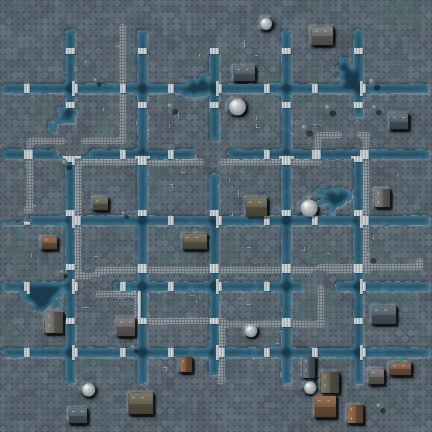
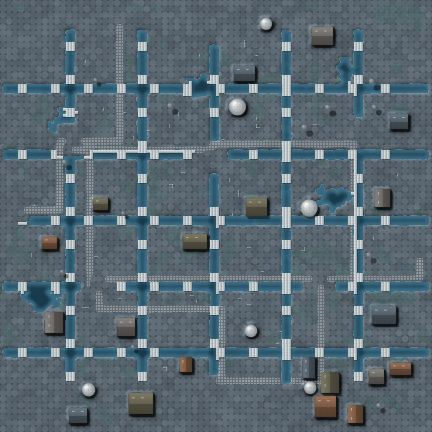
Ивенты: правки по сверке — неявка, награды по входу, сердцебиение матча, итог игроку
- комната: ушедший во время открытия убирается из ожидания; роль, так и не вошедшая
  за 3 минуты, — отмена без наград; поражение — только ушедшим после входа
- итог: в базу — кто из людей входил и была ли сдача; сдача в первые 3 минуты — без наград;
  игроку — только своя награда и свои убийства; итог дошлётся медленному игроку;
  запись итога — три попытки, иначе честное сообщение на экране
- база: сердцебиение матча (rt_event_beat, beat_at) — пропавший бой отменяется через 2 минуты
  и не открывается заново; rt_event_finish только для идущего матча; рейтинг по стороне
  до среза; без стороны в очередь нельзя
- лобби: само переводит в бой один раз на матч; движок: раскрытие ударом — только у
  скрытных бойцов ивента (бои планет как были); баланс охоты на джедаев по прогону ботов

Claude-Session: https://claude.ai/code/session_01WPoEiYkdcnr17YKPkK6tbL

diff --git a/server/event-room.js b/server/event-room.js
@@ -27,10 +27,16 @@ function EventRoom(name, match, cfg) {
   this.clients = []; this.waiting = []; this.ready = false; this.closed = false; this.failed = null;
   this.ms = []; this.bytes = 0; this.bytesRate = 0; this.rateAt = Date.now(); this.tickN = 0;
   this.battle = { tick: 0 }; this.created = Date.now(); this.emptySince = Date.now();
-  this.roleSeen = {}; this.endAt = 0; this.awards = null; this.finishing = false;
+  this.roleSeen = {}; this.endAt = 0; this.awards = null; this.finishing = false; this.saved = false;
+  this.present = {}; this.beatAt = Date.now();          // кто из людей входил в бой; сердцебиение матча в базе
   var self = this;
   this.open().then(function() { self.ready = true; self.waiting.forEach(function(c) { self.admit(c); }); self.waiting = []; },
-                   function(e) { self.failed = e.message || String(e); self.cfg.log('error', 'ивент не открылся', { room: name, err: self.failed }); self.waiting.forEach(function(c) { self.err(c, 'Ивент не открылся: ' + self.failed, 4007); }); self.waiting = []; self.closed = true; });
+                   function(e) {
+                     self.failed = e.message || String(e); self.cfg.log('error', 'ивент не открылся', { room: name, err: self.failed });
+                     self.waiting.forEach(function(c) { self.err(c, 'Ивент не открылся: ' + self.failed, 4007); }); self.waiting = []; self.closed = true;
+                     // база уже пометила матч «идёт» — отменяем, чтобы игроки не застряли
+                     if (self.match && !(self.cfg.dev && /^dev-/.test(self.matchId))) self.rpc('rt_event_abort', { p_match: self.matchId, p_why: 'сервер не открыл бой: ' + self.failed }).catch(function() {});
+                   });
 }
 EventRoom.prototype.rpc = function(fn, args) { args = args || {}; args.p_key = this.cfg.key; return this.cfg.rpc(fn, args); };
 EventRoom.prototype.err = function(c, msg, code) { try { c.ws.send(JSON.stringify({ t: 'error', msg: msg })); c.ws.close(code || 4007); } catch (e) {} };
@@ -53,6 +59,7 @@ EventRoom.prototype.open = function() {
   var get = this.cfg.dev && /^dev-/.test(this.matchId) ? devMatch(this.matchId) : this.rpc('rt_event_open', { p_match: this.matchId });
   return get.then(function(m) {
     if (!m || !m.event || !m.map) throw new Error('база не вернула матч');
+    self.match = m;
     var E = CAT.BY[m.event]; if (!E || !E.ready) throw new Error('ивент не готов: ' + m.event);
     if (E.maps.indexOf(m.map) < 0 || !fs.existsSync(mapPath(m.map))) throw new Error('нет карты ' + m.map);
     self.match = m; self.E = E;
@@ -94,7 +101,7 @@ EventRoom.prototype.admit = function(c) {
   c.side = teamOf(role ? role.side : p.side); c.role = p.role;
   c.viewer = new Net.Viewer(B, c.side, c.who.user === 'dev' && this.cfg.dev ? 'dev' : c.who.user, { ownerCheck: true });
   this.clients.push(c);
-  this.roleSeen[p.role] = Date.now();
+  this.roleSeen[p.role] = Date.now(); this.present[c.who.user] = 1;
   var E = this.E;
   this.send(c, JSON.stringify({
     t: 'hello', kind: 'event', system: this.mapInfo.id, name: this.mapInfo.name, side: c.side, att: B.att, T: Math.round(B.t * 100) / 100, capNeed: 1,
@@ -104,11 +111,20 @@ EventRoom.prototype.admit = function(c) {
           players: this.match.players.map(function(q) { return { role: q.role, nick: q.bot ? 'бот' : q.nick || '', bot: !!q.bot, me: q.user === c.who.user }; }) }
   }));
   this.send(c, JSON.stringify({ t: 'ev', v: this.H.view(c.side) }));
-  if (this.H.result) this.send(c, JSON.stringify({ t: 'evend', result: this.H.result, awards: this.awards }));
+  if (this.H.result && this.endMsg) this.send(c, this.endMsg(c), true);
   this.cfg.log('info', 'игрок в ивенте', { room: this.name, user: c.who.user, role: p.role, side: c.side });
 };
-EventRoom.prototype.leave = function(c) { var i = this.clients.indexOf(c); if (i >= 0) this.clients.splice(i, 1); if (c.role) this.roleSeen[c.role] = Date.now(); };
-EventRoom.prototype.send = function(c, s) { this.bytes += s.length; c.bytes = (c.bytes || 0) + s.length; try { c.send(s); } catch (e) {} };
+EventRoom.prototype.leave = function(c) {
+  var i = this.clients.indexOf(c); if (i >= 0) this.clients.splice(i, 1);
+  var w = this.waiting.indexOf(c); if (w >= 0) this.waiting.splice(w, 1);           // ушёл, пока бой открывался
+  if (c.role) this.roleSeen[c.role] = Date.now();
+};
+// Медленный игрок: кадры пропускаем и потом шлём бой заново (viewer.lost); итог — дошлём, как освободится
+EventRoom.prototype.send = function(c, s, keep) {
+  if (c.ws.bufferedAmount > 1048576) { if (c.viewer) c.viewer.lost(); if (keep) c.pending = s; return; }
+  this.bytes += s.length; c.bytes = (c.bytes || 0) + s.length;
+  try { c.ws.send(s); } catch (e) {}
+};
 EventRoom.prototype.command = function(c, m) { if (!c.viewer || !this.ready || this.H.result) return; if (m.t === 'cmd') c.viewer.command(m); };
 
 // ---- такт
@@ -119,11 +135,17 @@ EventRoom.prototype.step = function() {
   this.tickN++; this.battle.tick = this.tickN;
   for (i = 0; i < this.clients.length; i++) {
     var c = this.clients[i]; if (!c.viewer) continue;
+    if (c.pending && c.ws.bufferedAmount < 262144) { var pd = c.pending; c.pending = null; this.send(c, pd, true); }
     if (this.tickN % Net.FRAME_EVERY === 0) this.send(c, c.viewer.frame(this.tickN));
     if (this.tickN % 5 === 0) this.send(c, JSON.stringify({ t: 'ev', v: H.view(c.side) }));
   }
   if (now - this.rateAt >= 2000) { this.bytesRate = this.bytes / ((now - this.rateAt) / 1000); this.bytes = 0; this.rateAt = now; }
   if (H.result && !this.finishing) this.finish();
+  // сердцебиение матча: база отменяет «идущие» матчи без него (сервер упал, комната пропала)
+  if (!H.result && now - this.beatAt > 30e3 && !(this.cfg.dev && /^dev-/.test(this.matchId))) {
+    this.beatAt = now; var self0 = this;
+    this.rpc('rt_event_beat', { p_match: this.matchId }).catch(function(e) { self0.cfg.log('warn', 'rt_event_beat', { room: self0.name, err: e.message }); });
+  }
   // никто из людей так и не вошёл
   if (!H.result && !Object.keys(this.roleSeen).length && now - this.created > START_WAIT) this.abort('игроки не вошли в бой');
 };
@@ -133,24 +155,36 @@ EventRoom.prototype.forfeit = function(now) {
   var self = this, here = {}, roles = {};
   this.clients.forEach(function(c) { if (c.role) here[c.role] = 1; });
   this.humans.forEach(function(p) { roles[p.role] = 1; });
-  var gone = Object.keys(roles).filter(function(r) { return !here[r] && now - (self.roleSeen[r] || self.created) > LEAVE_LOSE; });
+  var never = Object.keys(roles).filter(function(r) { return !self.roleSeen[r]; });
+  if (never.length && now - this.created > START_WAIT) { this.abort('не все игроки вошли в бой'); return; }
+  var gone = Object.keys(roles).filter(function(r) { return self.roleSeen[r] && !here[r] && now - self.roleSeen[r] > LEAVE_LOSE; });
   if (!gone.length) return;
   if (gone.length === Object.keys(roles).length) { this.abort('все игроки покинули бой'); return; }
   var win = Object.keys(roles).filter(function(r) { return gone.indexOf(r) < 0; })[0];
-  this.H.finish(win, 'Соперник покинул бой');
+  this.H.finish(win, 'Соперник покинул бой'); this.H.result.forfeit = true;
 };
 EventRoom.prototype.finish = function() {
   var self = this, H = this.H;
   this.finishing = true; this.endAt = Date.now();
-  var res = { winner: H.result.winner, why: H.result.why, t: H.result.t, tasks: H.result.tasks, need: H.result.need, stats: H.result.stats };
-  this.cfg.log('info', 'ивент окончен', { room: this.name, winner: res.winner, why: res.why, t: res.t });
-  var done = function(aw) {
-    self.awards = aw || null;
-    self.clients.forEach(function(c) { self.send(c, JSON.stringify({ t: 'evend', result: res, awards: self.awardFor(c) })); });
+  var res = { winner: H.result.winner, why: H.result.why, t: H.result.t, tasks: H.result.tasks, need: H.result.need, stats: H.result.stats, forfeit: !!H.result.forfeit, present: Object.keys(this.present) };
+  this.cfg.log('info', 'ивент окончен', { room: this.name, winner: res.winner, why: res.why, t: res.t, forfeit: res.forfeit });
+  // игроку — общий итог без чужих данных, своя награда и свои убийства
+  this.endMsg = function(c) {
+    var me = c.who && res.stats[c.who.user] || { kills: 0, lost: 0 };
+    return JSON.stringify({ t: 'evend', result: { winner: res.winner, why: res.why, t: res.t, tasks: res.tasks, need: res.need, forfeit: res.forfeit }, me: me, awards: self.awardFor(c), saved: self.saved, test: !!self.match.test });
   };
-  if (this.cfg.dev && /^dev-/.test(this.matchId)) { done(null); return; }
-  this.rpc('rt_event_finish', { p_match: this.matchId, p_result: res }).then(function(r) { done(r && r.awards || null); },
-    function(e) { self.cfg.log('error', 'rt_event_finish', { room: self.name, err: e.message }); done(null); });
+  var done = function(aw, saved) {
+    self.awards = aw || null; self.saved = !!saved;
+    self.clients.forEach(function(c) { self.send(c, self.endMsg(c), true); });
+  };
+  if (this.cfg.dev && /^dev-/.test(this.matchId)) { done(null, true); return; }
+  // запись итога: три попытки (сеть до базы может моргнуть)
+  var tries = 0;
+  (function save() {
+    tries++;
+    self.rpc('rt_event_finish', { p_match: self.matchId, p_result: res }).then(function(r) { done(r && r.awards || null, true); },
+      function(e) { self.cfg.log('error', 'rt_event_finish', { room: self.name, err: e.message, try: tries }); if (tries < 3) setTimeout(save, 4000 * tries); else done(null, false); });
+  })();
 };
 EventRoom.prototype.awardFor = function(c) {
   if (!this.awards || !c.who) return null;
@@ -161,7 +195,7 @@ EventRoom.prototype.abort = function(why) {
   if (this.closed) return;
   var self = this;
   this.cfg.log('warn', 'ивент отменён', { room: this.name, why: why });
-  this.clients.forEach(function(c) { self.send(c, JSON.stringify({ t: 'evend', aborted: true, result: { why: 'Бой отменён: ' + why } })); });
+  this.clients.forEach(function(c) { self.send(c, JSON.stringify({ t: 'evend', aborted: true, result: { why: 'Бой отменён: ' + why } }), true); });
   this.closed = true;
   if (!(this.cfg.dev && /^dev-/.test(this.matchId))) this.rpc('rt_event_abort', { p_match: this.matchId, p_why: why }).catch(function(e) { self.cfg.log('error', 'rt_event_abort', { err: e.message }); });
 };

diff --git a/js/event-live.js b/js/event-live.js
@@ -91,7 +91,7 @@
       top();
       if (!L.camSet) camToMine();
       if (m.v.over && !L.endShown) showEnd(m.v.over, null);
-    } else if (m.t === 'evend') { L.end = m; showEnd(m.result || {}, m.awards, m.aborted); }
+    } else if (m.t === 'evend') { L.end = m; showEnd(m.result || {}, m.awards, m.aborted, m); }
   };
   function left() { var v = L.v; if (!v) return 0; return v.over ? v.left : Math.max(0, v.left - (Date.now() - L.vAt) / 1000); }
   function top() {
@@ -186,7 +186,8 @@
   // ---------------------------------------------------------------- итог
   window.GD_ON_END = function(win, why) { if (!L.endShown) showEnd(L.v && L.v.over ? L.v.over : { why: why, winner: win ? myRole() : '' }, null); };
   function myRole() { return L.hello && L.hello.ev ? L.hello.ev.role : ''; }
-  function showEnd(res, aw, aborted) {
+  function showEnd(res, aw, aborted, m) {
+    m = m || L.end || {};
     var e = L.hello && L.hello.ev || {}, won = !aborted && res.winner === e.role;
     L.endShown = true;
     var el = $('ev-end');
@@ -195,16 +196,19 @@
     $('ev-end-mark').innerHTML = glyph(e.role === 'hunter' ? 'hunter' : e.role);
     $('ev-end-title').textContent = aborted ? 'Бой отменён' : won ? 'Победа' : 'Поражение';
     $('ev-end-why').textContent = res.why || '';
-    var mine = 0; if (res.stats && L.hello) Object.keys(res.stats).forEach(function(k) { if (k === (window.GD && GD.B && GD.B.agents.filter(function(a) { return a && a.team === GD.side && a.owner; })[0] || {}).owner) mine = res.stats[k].kills; });
+    var mine = m.me ? m.me.kills : 0;
     $('ev-end-stats').innerHTML = aborted ? '' : '<div><b>' + fmtT(res.t || 0) + '</b><span>длился</span></div><div><b>' + (res.tasks != null ? res.tasks + '/' + res.need : '—') + '</b><span>задач</span></div><div><b>' + mine + '</b><span>твоих убийств</span></div>';
     var a = $('ev-end-award');
     if (aw) {
       var res2 = Object.keys(aw.res || {}).map(function(k) { return aw.res[k] + ' ' + CAT.RES_NAME[k]; }).join(', ');
       a.innerHTML = (aw.credits > 0 ? '+' + fmtN(aw.credits) + ' кредитов' : 'Без награды') + (res2 ? '<br><em>на склад: ' + esc(res2) + '</em>' : '') + (aw.points ? '<br><em>+' + aw.points + ' очков рейтинга</em>' : '') +
         (aw.title ? '<span class="ttl">Новый титул: «' + esc(aw.title) + '»</span>' : '') + (aw.won ? '<span class="ttl" style="color:#e8d9a8">Трофей уровня ' + ['I', 'II', 'III'][(e.tier || 1) - 1] + '</span>' : '');
-    } else if (e.test) a.innerHTML = '<em>Тестовый бой — награда не начисляется</em>';
-    else if (!aborted && L.end) a.innerHTML = '<em>Награда начислена — подробности в «Истории» ивентов</em>';
-    else a.innerHTML = aborted ? '' : '<em>Подсчёт награды…</em>';
+    } else if (e.test || m.test) a.innerHTML = '<em>Тестовый бой — награда не начисляется</em>';
+    else if (aborted) a.innerHTML = '<em>Бой отменён — награды нет</em>';
+    else if (L.end && m.saved === false) a.innerHTML = '<em>Итог не удалось записать — сообщи администрации, награду начислят вручную</em>';
+    else if (L.end && res.forfeit && (res.t || 0) < 180) a.innerHTML = '<em>Соперник ушёл слишком рано — бой без награды</em>';
+    else if (L.end) a.innerHTML = '<em>Награда — в «Истории» ивентов</em>';
+    else a.innerHTML = '<em>Подсчёт награды…</em>';
     el.hidden = false;
   }
   $('ev-end-look').onclick = function() { $('ev-end').hidden = true; };

diff --git a/shared/rt-events.js b/shared/rt-events.js
@@ -40,7 +40,7 @@
     exitR:   3.2
   };
   // Отряд одного охотника по числу охотников (общая сила растёт медленнее числа игроков)
-  var SQUAD = { hunt_sith: { 1: 12, 2: 8, 3: 6, 4: 5 }, hunt_jedi: { 1: 10, 2: 7, 3: 5, 4: 4 } };
+  var SQUAD = { hunt_sith: { 1: 12, 2: 8, 3: 6, 4: 5 }, hunt_jedi: { 1: 10, 2: 6, 3: 5, 4: 4 } };
   var KIT = {
     // [сенсорщик, основной, тяжёлый, снайпер, элита уровня III]
     hunt_sith: { team: 0, prey: 'cis_sith', preyTeam: 1, scan: 'rep_officer', main: 'rep_dc15a', heavy: 'rep_heavy', sniper: 'rep_sniper', elite: 'rep_commando',
@@ -56,8 +56,8 @@
   };
   // Прочность добычи: множитель по числу бойцов-охотников (подобран прогоном ботов, tools/events/sim.js)
   // уровни II–III дают добыче больше сил — прочность чуть ниже
-  var PREY_TIER = [1, 0.85, 0.8];
-  var PREY_HP = { hunt_sith: [1, 0.45, 0.95, 1.55, 1.95], hunt_jedi: [1, 1, 1.6, 1.75, 2.1] };
+  var PREY_TIER = { hunt_sith: [1, 0.85, 0.8], hunt_jedi: [1, 0.85, 0.95] };
+  var PREY_HP = { hunt_sith: [1, 0.45, 0.95, 1.55, 1.95], hunt_jedi: [1, 1.05, 2.3, 2.3, 2.8] };
 
   function rng(seed) { var s = (seed >>> 0) || 7; return function() { s ^= s << 13; s >>>= 0; s ^= s >>> 17; s ^= s << 5; s >>>= 0; return s / 4294967296; }; }
   function d2(a, x, y) { var dx = a.x - x, dy = a.y - y; return dx * dx + dy * dy; }
@@ -98,7 +98,7 @@
     });
     // добыча: в одном из трёх стартов (джедаи — рядом друг с другом)
     var prey = this.owners(this.preyRole), st = ev.prey[Math.floor(R() * ev.prey.length)];
-    var hpK = (PREY_HP[this.cfg.event] || [1])[Math.min(4, n)] * PREY_TIER[ti] * (prey.length > 1 ? 0.8 : 1);
+    var hpK = (PREY_HP[this.cfg.event] || [1])[Math.min(4, n)] * PREY_TIER[this.cfg.event][ti] * (prey.length > 1 ? 0.8 : 1);
     var names = K.names.slice(), portr = K.portraits.slice();
     prey.forEach(function(p, k) {
       var nm = names.splice(Math.floor(R() * names.length), 1)[0], pt = portr.splice(Math.floor(R() * portr.length), 1)[0];

diff --git a/js/events.js b/js/events.js
@@ -183,7 +183,9 @@
       var E = CAT.BY[st.match.event] || { title: '' }, mine = (st.match.players || []).filter(function(p) { return p.user === S.uid; })[0], role = mine && CAT.role(st.match.event, mine.role);
       el.hidden = false; el.className = 'ev-queue found';
       el.innerHTML = '<i class="ev-q-spin"></i><div class="ev-q-tx"><b>Бой найден: ' + esc(E.title) + '</b><em>' + esc(S.maps[st.match.map] || st.match.map) + ' · ' + ['I', 'II', 'III'][st.match.tier - 1] + (role ? ' · ты — <i>' + esc(role.name.toLowerCase()) + '</i>' : '') + (st.match.test ? ' · тест' : '') + '</em></div><button type="button" class="ev-go" id="ev-q-go">В бой</button>';
-      clearTimeout(S.goT); S.goT = setTimeout(function() { go(st.match.id); }, 2500);
+      // сам переводим в бой один раз на матч: вернулся из боя — остаётся кнопка
+      var key = 'ev-go-' + st.match.id, once = false; try { once = !!sessionStorage.getItem(key); sessionStorage.setItem(key, '1'); } catch (e) {}
+      clearTimeout(S.goT); if (!once) S.goT = setTimeout(function() { go(st.match.id); }, 2500);
       return;
     }
     clearTimeout(S.goT);

diff --git a/tools/events/maps.js b/tools/events/maps.js
@@ -326,8 +326,8 @@ module.exports = {
       // затопленные площади
       for (let i = 0; i < 5; i++) g.blob(g.irnd(14, 130), g.irnd(20, 116), g.irnd(30, 80), (x, y) => g.paint(x, y, T.WATER, 0));
       // мостки через каналы
-      for (let y = 28; y < 124; y += 22) for (let x = 8; x < N - 8; x += 16) g.rect(x, y - 1, 2, 5, (i, j) => { if (g.t[j * N + i] === T.WATER) g.paint(i, j, T.BRIDGE, 0); });
-      for (let x = 22; x < 130; x += 24) for (let y = 16; y < 124; y += 18) g.rect(x - 1, y, 5, 2, (i, j) => { if (g.t[j * N + i] === T.WATER) g.paint(i, j, T.BRIDGE, 0); });
+      for (let y = 28; y < 124; y += 22) for (let x = 6; x < N - 6; x += 11) g.rect(x, y - 1, 3, 5, (i, j) => { if (g.t[j * N + i] === T.WATER) g.paint(i, j, T.BRIDGE, 0); });
+      for (let x = 22; x < 130; x += 24) for (let y = 14; y < 126; y += 11) g.rect(x - 1, y, 5, 3, (i, j) => { if (g.t[j * N + i] === T.WATER) g.paint(i, j, T.BRIDGE, 0); });
       // дома и купола
       g.place(20, 1200, inner, (x, y) => {
         const w = g.irnd(4, 8), h = g.irnd(4, 7), x0 = Math.round(x), y0 = Math.round(y), cells = [];

diff --git a/shared/rt-ground.js b/shared/rt-ground.js
@@ -1010,7 +1010,7 @@
     a.cd = a.T.rof;
     this.heroAct(a, 'slash', SLASH, { tid: tg.a.id });
   };
-  Ground.prototype.heroAct = function(a, act, dur, data) { var h = a.hero; a.revealT = this.t; h.act = act; h.actT = dur; h.actDur = dur; h.k = 0; h.data = data || null; a.mv = 0; this.ev.fx.push({ t: this.t, k: act, x: a.x, y: a.y, id: a.id, tid: data && data.tid, tx: data && data.x, ty: data && data.y }); };
+  Ground.prototype.heroAct = function(a, act, dur, data) { var h = a.hero; if (a.sneak) a.revealT = this.t; h.act = act; h.actT = dur; h.actDur = dur; h.k = 0; h.data = data || null; a.mv = 0; this.ev.fx.push({ t: this.t, k: act, x: a.x, y: a.y, id: a.id, tid: data && data.tid, tx: data && data.x, ty: data && data.y }); };
   Ground.prototype.heroActEnd = function(a) {
     var h = a.hero, d = h.data || {}, b = d.tid != null ? this.agents[d.tid] : null, act = h.act;
     h.act = 'idle'; h.k = 0;

diff --git a/server/index.js b/server/index.js
@@ -188,7 +188,7 @@ function loop() {
     if (r.kind === 'event') {
       // бой ивента: живёт до итога и ещё полторы минуты; закрытый остаётся в списке,
       // чтобы тот же матч не открылся заново (убирается через 10 минут)
-      if (r.closed) { if (!r.goneAt) r.goneAt = Date.now(); if (Date.now() - r.goneAt > 10 * 60e3) ROOMS.delete(name); return; }
+      if (r.closed) { if (!r.goneAt) r.goneAt = Date.now(); if (Date.now() - r.goneAt > (r.failed ? 30e3 : 10 * 60e3)) ROOMS.delete(name); return; }
       if (r.shouldClose()) { r.close('end'); return; }
     } else if (r.kind === 'ground' || r.kind === 'system') {
       // планета и орбита живут и без игроков, пока идёт бой; закрываются после тишины
